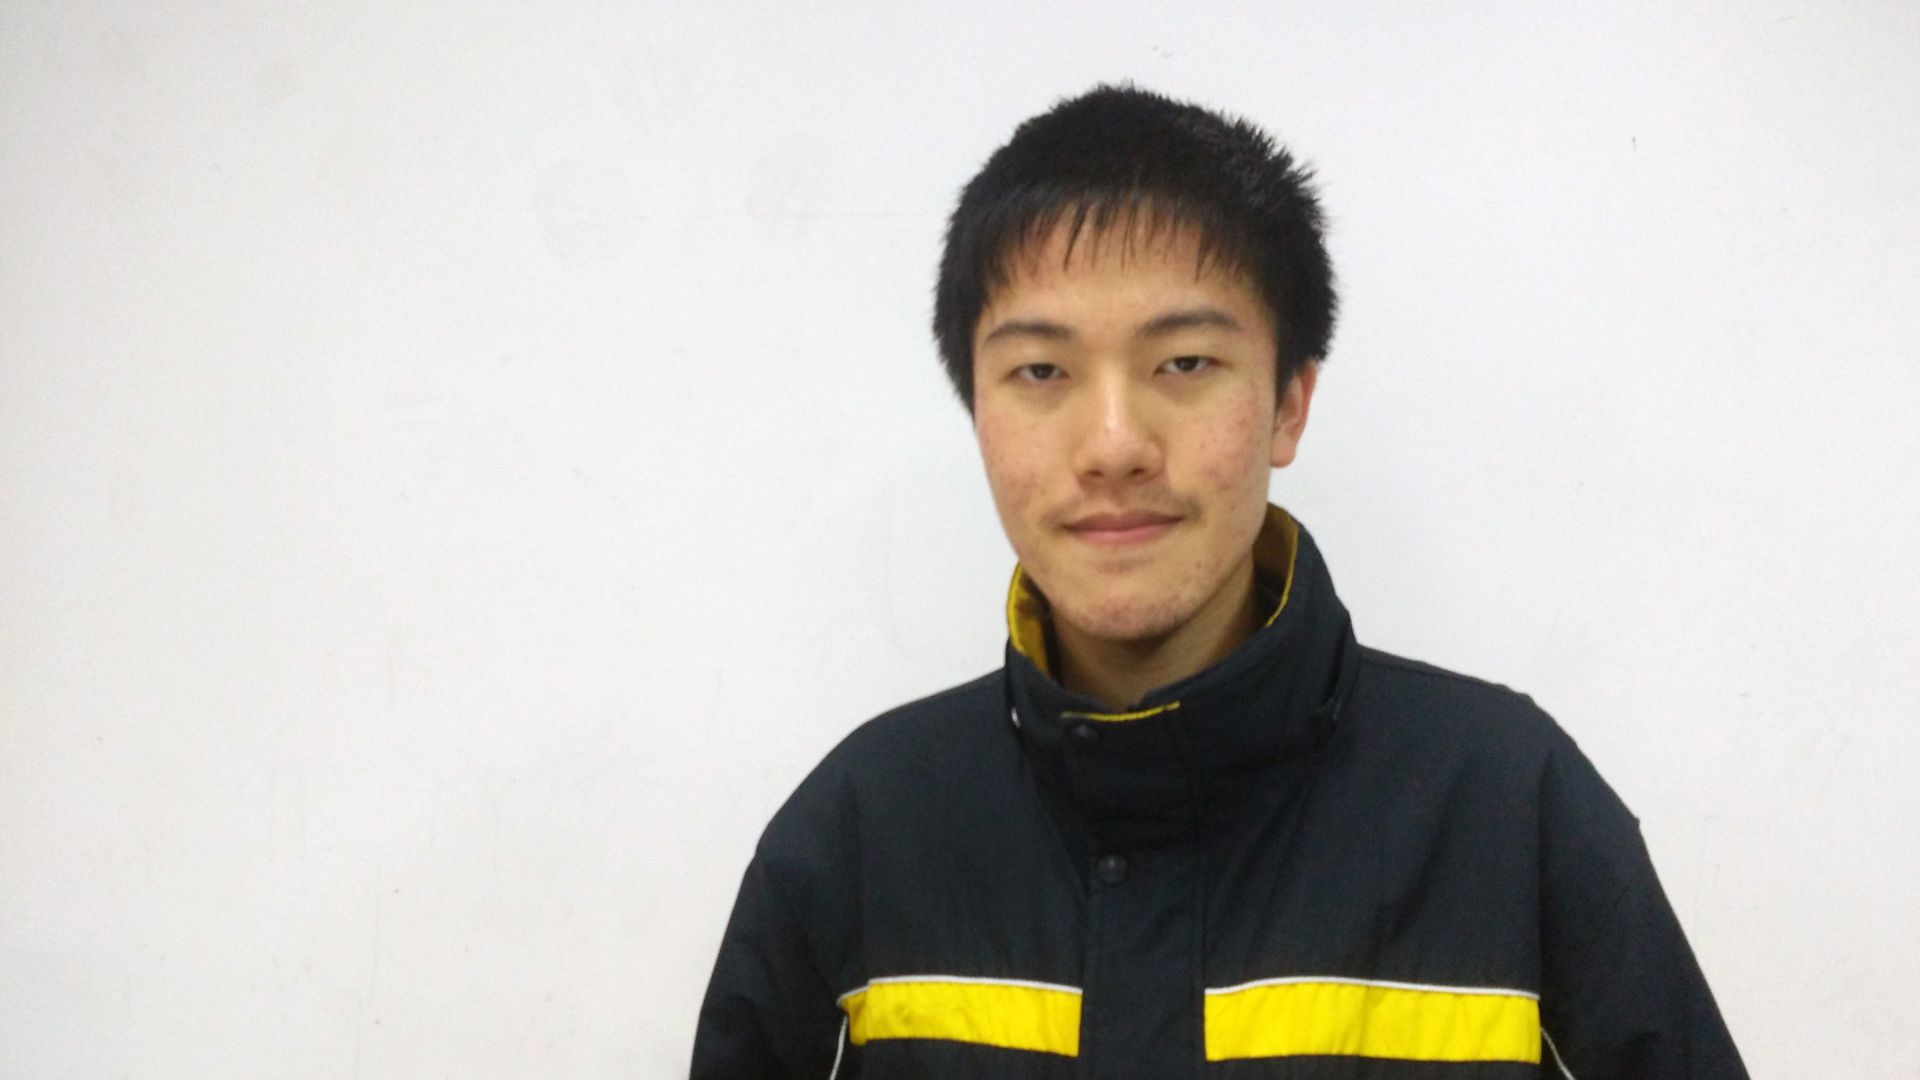
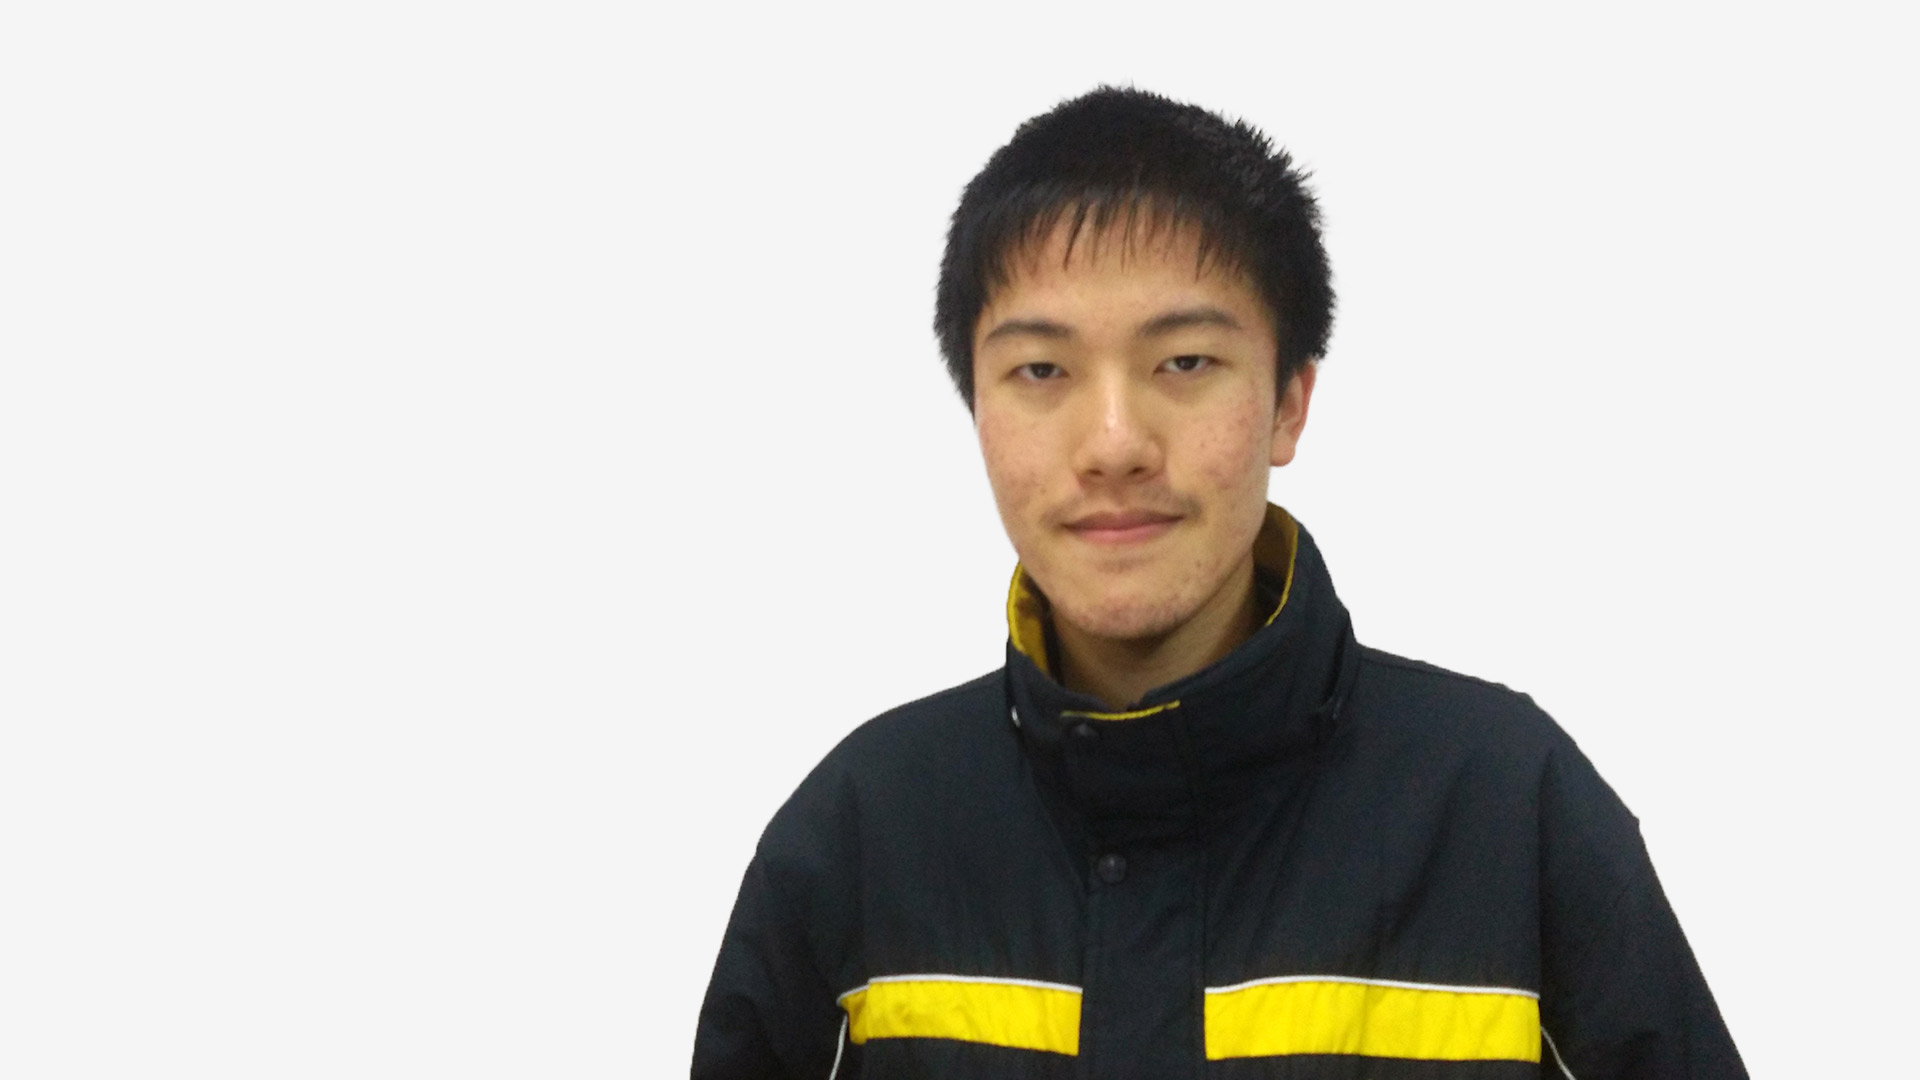
Optimize images

diff --git a/404.html b/404.html
@@ -8,12 +8,14 @@
 <link rel="stylesheet" href="style/default.css" />
 <style>
 @namespace url("http://www.w3.org/1999/xhtml");
-body{
-max-width: none;
-background: #000033 url("img/leyuan_compressed.jpg") no-repeat fixed bottom center;
+html {
+background: #000033 url("img/leyuan.jpg") no-repeat fixed bottom center;
 background-size: cover;
 color: white;
 opacity: 0.75;
+}
+body {
+max-width: none;
 }
 main {
 text-align: right;
